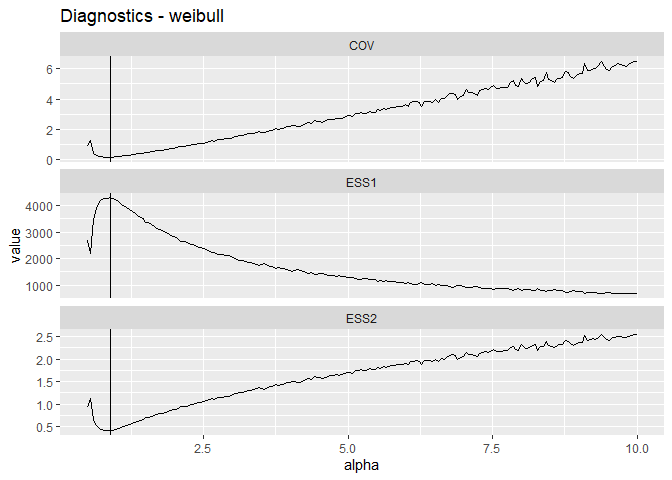
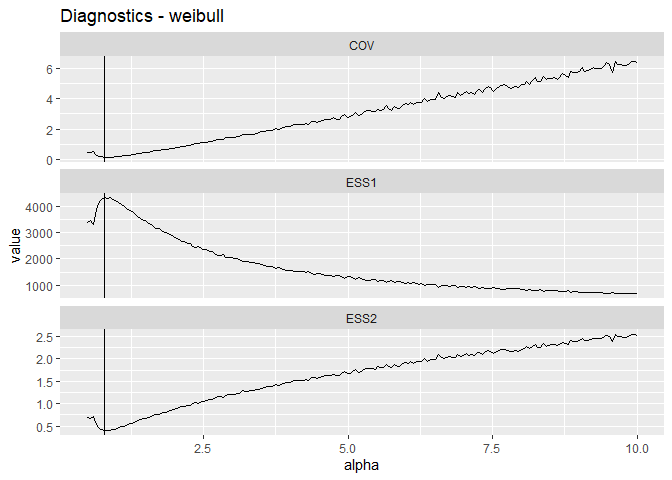
fixed second prior distribution

diff --git a/README.md b/README.md
@@ -2,7 +2,7 @@ Survival Extrapolation Incorporating External Information Using
 Importance Sampling
 ================
 NCPE
-2024-05-10
+2024-05-30
 
 ## Basic Usage
 
@@ -180,15 +180,15 @@ fit$post_mean
 ```
 
     ##     shape     scale 
-    ## 0.2196108 4.1746629
+    ## 0.2205064 4.1733832
 
 ``` r
 fit$post_cov
 ```
 
     ##              shape       scale
-    ## shape  0.009386534 -0.01187727
-    ## scale -0.011877274  0.02369849
+    ## shape  0.009497905 -0.01180935
+    ## scale -0.011809346  0.02341346
 
 However, it is probably a good idea to examine the output before doing
 this. To do this we have provided the function `expert_surv_viz_gg`
@@ -219,26 +219,25 @@ is_surv_viz_gg(
 ## Example with 2 timepoints
 
 This time we modify the preceding example to include additional
-information on survival at 10 years. Indeed, suppose that specify a
-prior distribution for 10-year OS with mean 0.1 and with 95% density
+information on survival at 10 years. Indeed, suppose that we specify a
+prior distribution for 10-year OS with median 0.1 and with 97.5% density
 contained in the region bounded above by 0.25. To avoid assigning a
 nontrivial prior probability to values below zero, we use a lognormal
 distribution.
 
 ``` r
 # External Information at 10 years
-log.se<-(log(0.25)-log(0.1))/(qnorm(0.95))
+sigmalog<-(log(0.25)-log(0.1))/1.96
 
-log.mu<-log(0.1)-log.se^2/2
-# Fix this later
+mulog<-log(0.1)
 
 # Specification of the prior
 ex.info.2<-list("tstar"=c(60,120),
                   "loss"=function(x){dnorm(x[1],mean=mu_t,sd=sigma_t,log=TRUE)+
-                      dlnorm(x[2],meanlog=log.mu,sdlog=log.se,log=TRUE)
+                      dlnorm(x[2],meanlog=mulog,sdlog=sigmalog,log=TRUE)
                       },
-                  "lower.probs"=c(0.2,qlnorm(0.025,meanlog=log.mu,sdlog = log.se)),
-                  "upper.probs"=c(0.55,qlnorm(0.975,meanlog=log.mu,sdlog = log.se))
+                  "lower.probs"=c(0.2,qlnorm(0.025,meanlog=mulog,sdlog = sigmalog)),
+                  "upper.probs"=c(0.55,qlnorm(0.975,meanlog=mulog,sdlog = sigmalog))
                 )
 ```
 
@@ -265,7 +264,3 @@ is_surv_viz_gg(
 ```
 
 ![](README_files/figure-gfm/unnamed-chunk-6-1.png)<!-- -->![](README_files/figure-gfm/unnamed-chunk-6-2.png)<!-- -->![](README_files/figure-gfm/unnamed-chunk-6-3.png)<!-- -->
-
-## To do list
-
-Make specification of the priors easier
